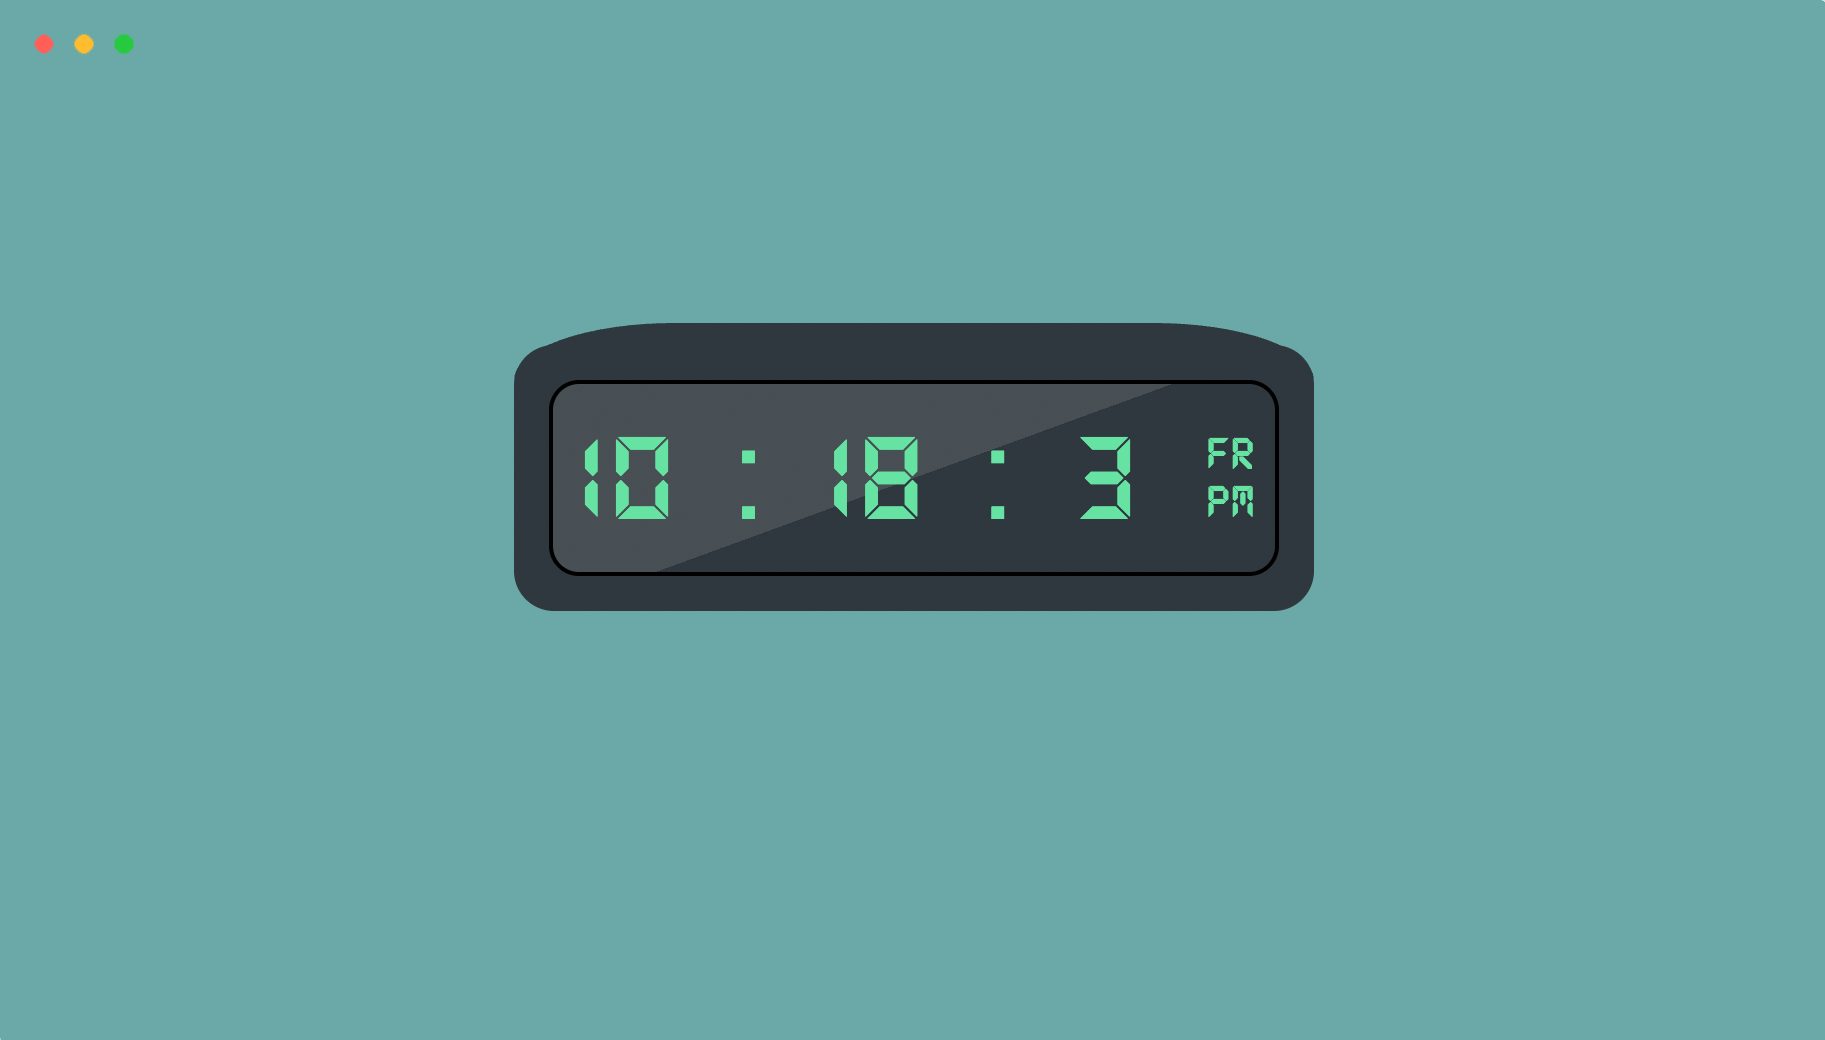
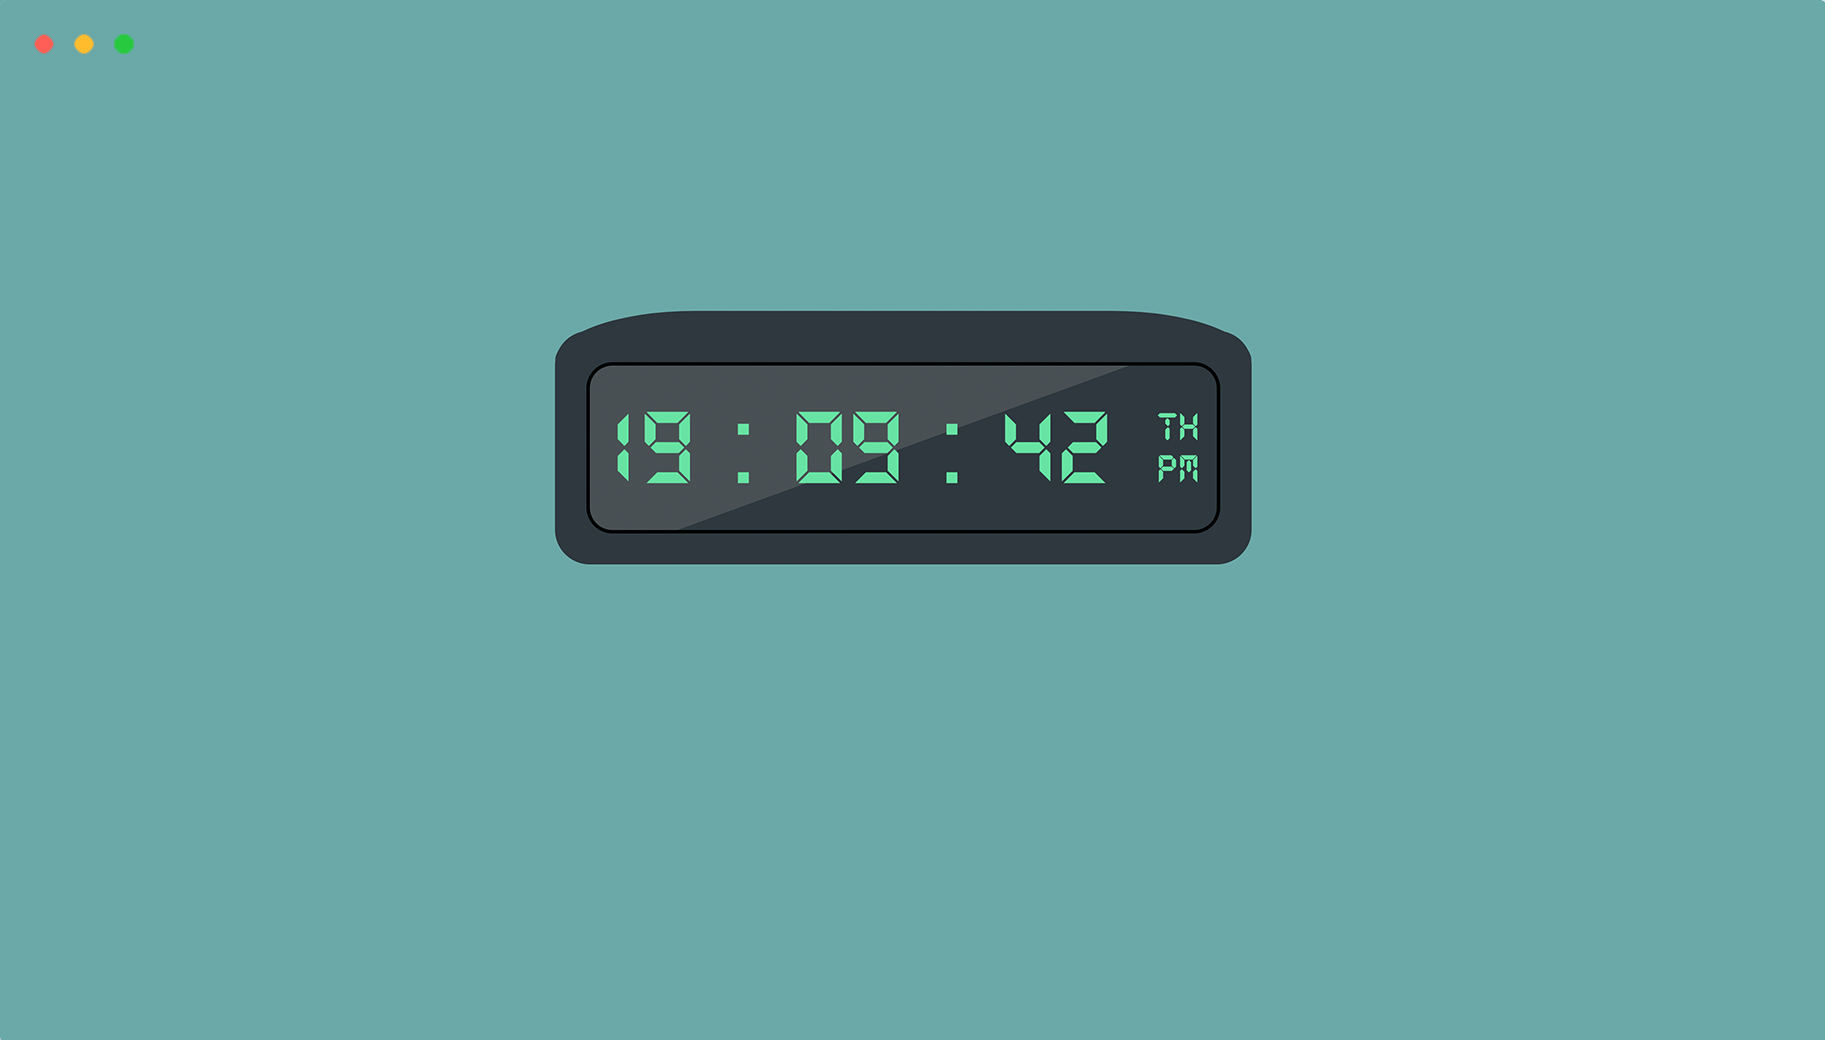
fixed readme

Changed region(s): [[0.2811, 0.2769, 0.7184, 0.5846]]

diff --git a/assets/css/style.css b/assets/css/style.css
@@ -31,7 +31,7 @@ p {
 #clockContainer {
   background-color: var(--darkGrey);
   padding: 15px;
-  border: 20px solid var(--darkGrey);
+  border: 21px solid var(--darkGrey);
   border-radius: 40px;
   min-width: 800px;
 }
@@ -59,7 +59,7 @@ p {
 }
 
 .clockButton {
-  border-top: 22px solid var(--darkGrey);
+  border-top: 23px solid var(--darkGrey);
   border-radius: 20%;
 }
 

diff --git a/assets/js/main.js b/assets/js/main.js
@@ -63,7 +63,7 @@ let displayUhr = () => {
     sekunde.innerText = seconds;
   }
 
-  setInterval(displayUhr, 10000);
+  setInterval(displayUhr, 1000);
 };
 
 displayUhr();
